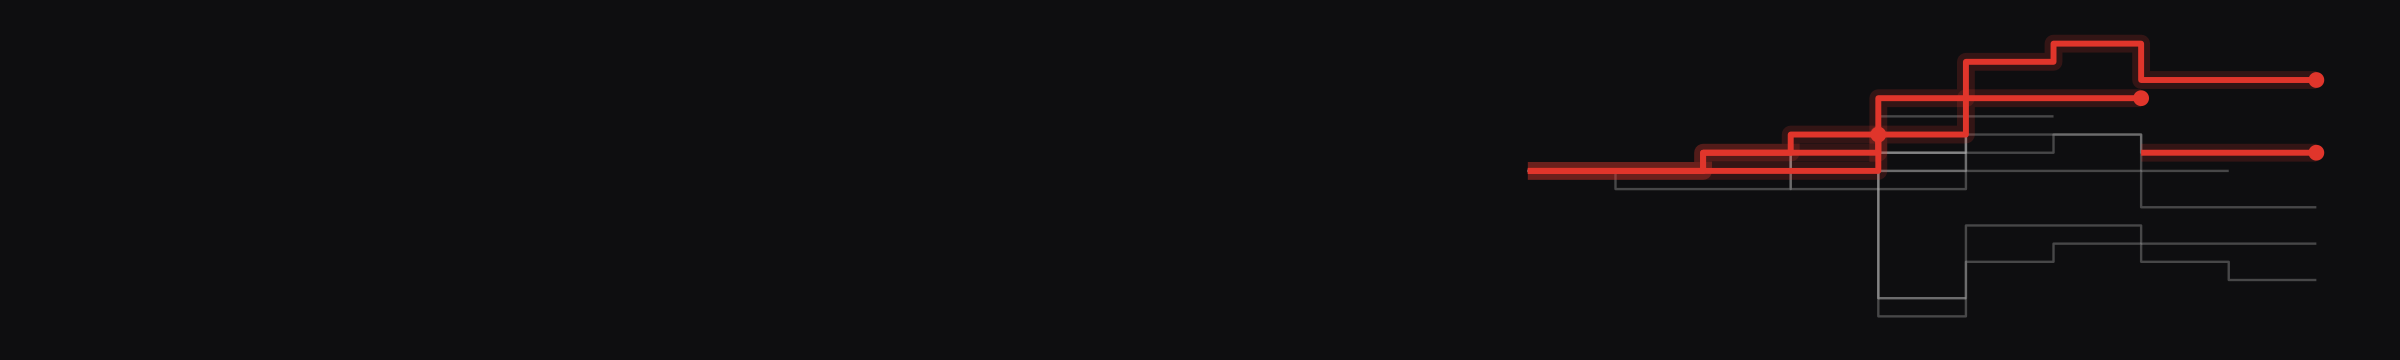
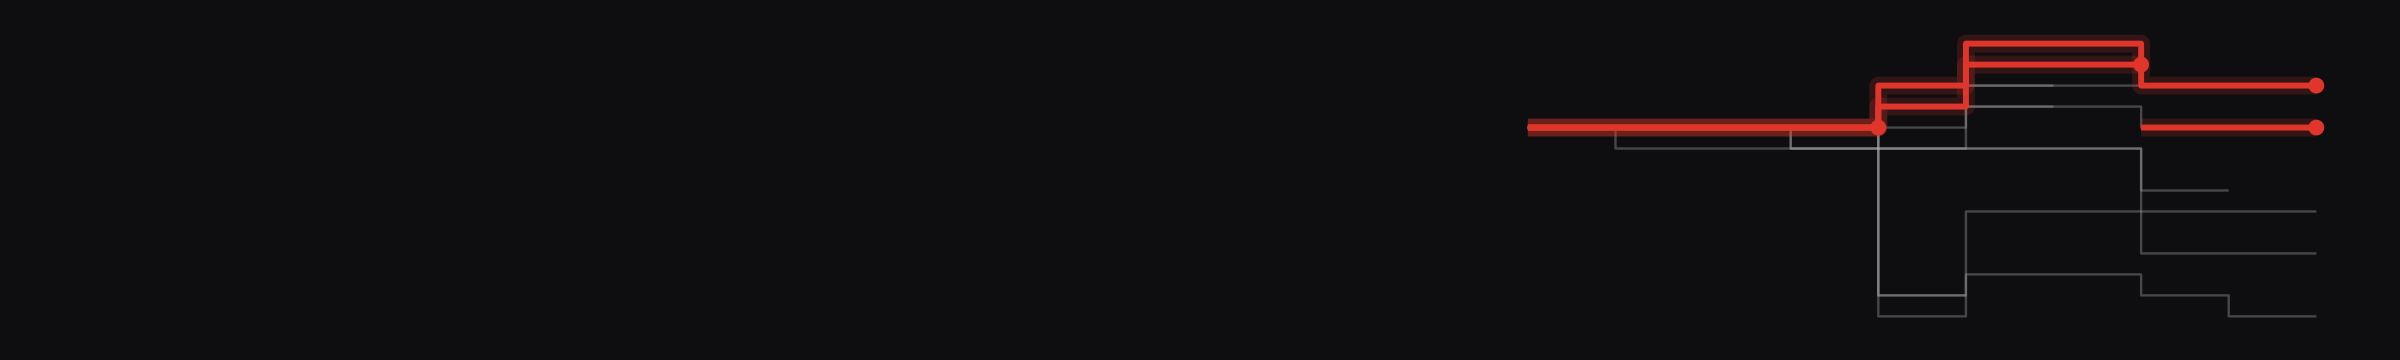
Updated

diff --git a/docs/index.html b/docs/index.html
@@ -4478,7 +4478,7 @@ color: white;
 }
 .quarto-title-block .quarto-title-banner {
 color: white;
[2 lines of base64/hex data omitted]
 background-size: cover;
 }
 </style>
@@ -4488,9 +4488,13 @@ background-size: cover;
 <meta property="og:description" content="Can a Faithful spot the Traitors from round table votes alone? A running suspicion score built from every UK Traitors vote.">
 <meta property="og:image" content="https://traitors.wpball.com/share.png">
 <meta property="og:site-name" content="Will Ball">
+<meta property="og:image:height" content="630">
+<meta property="og:image:width" content="1200">
 <meta name="twitter:title" content="Will Ball - Can a Faithful spot a Traitor from the votes alone?">
 <meta name="twitter:description" content="Can a Faithful spot the Traitors from round table votes alone? A running suspicion score built from every UK Traitors vote.">
 <meta name="twitter:image" content="https://traitors.wpball.com/share.png">
+<meta name="twitter:image-height" content="630">
+<meta name="twitter:image-width" content="1200">
 <meta name="twitter:card" content="summary_large_image">
 </head>
 
